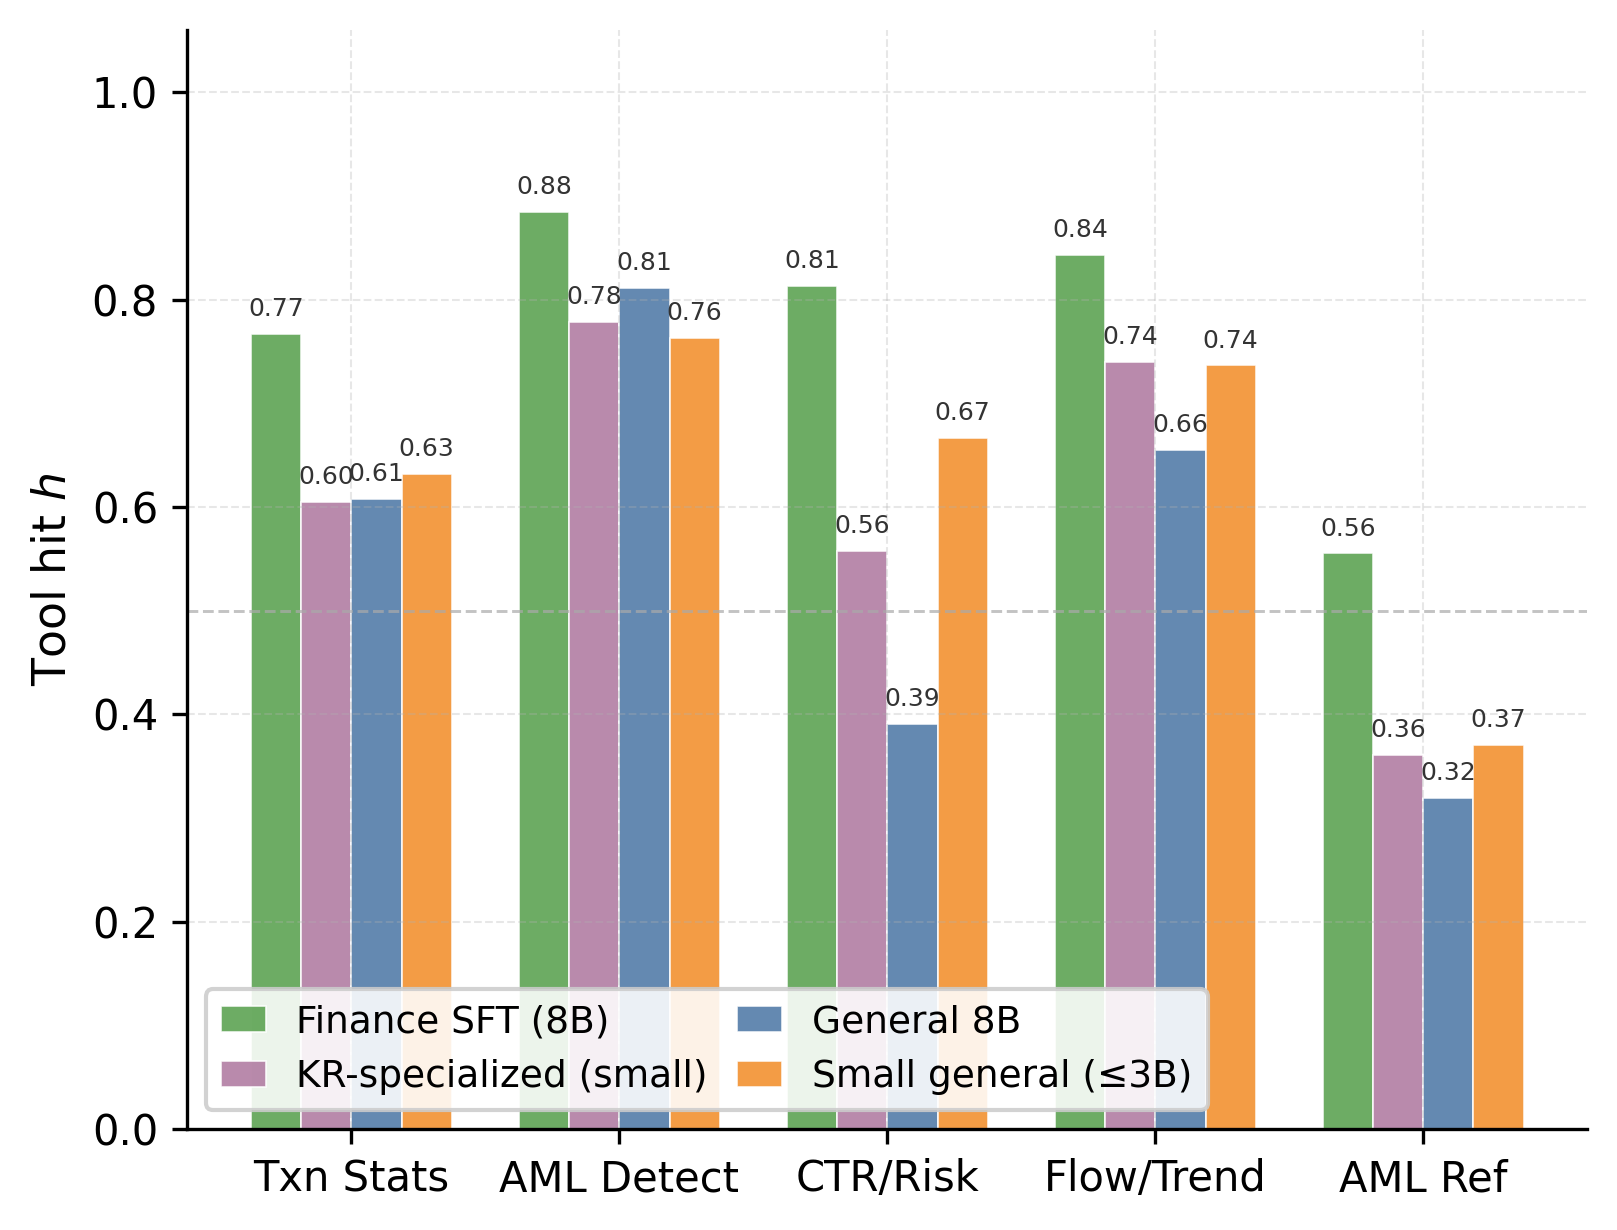
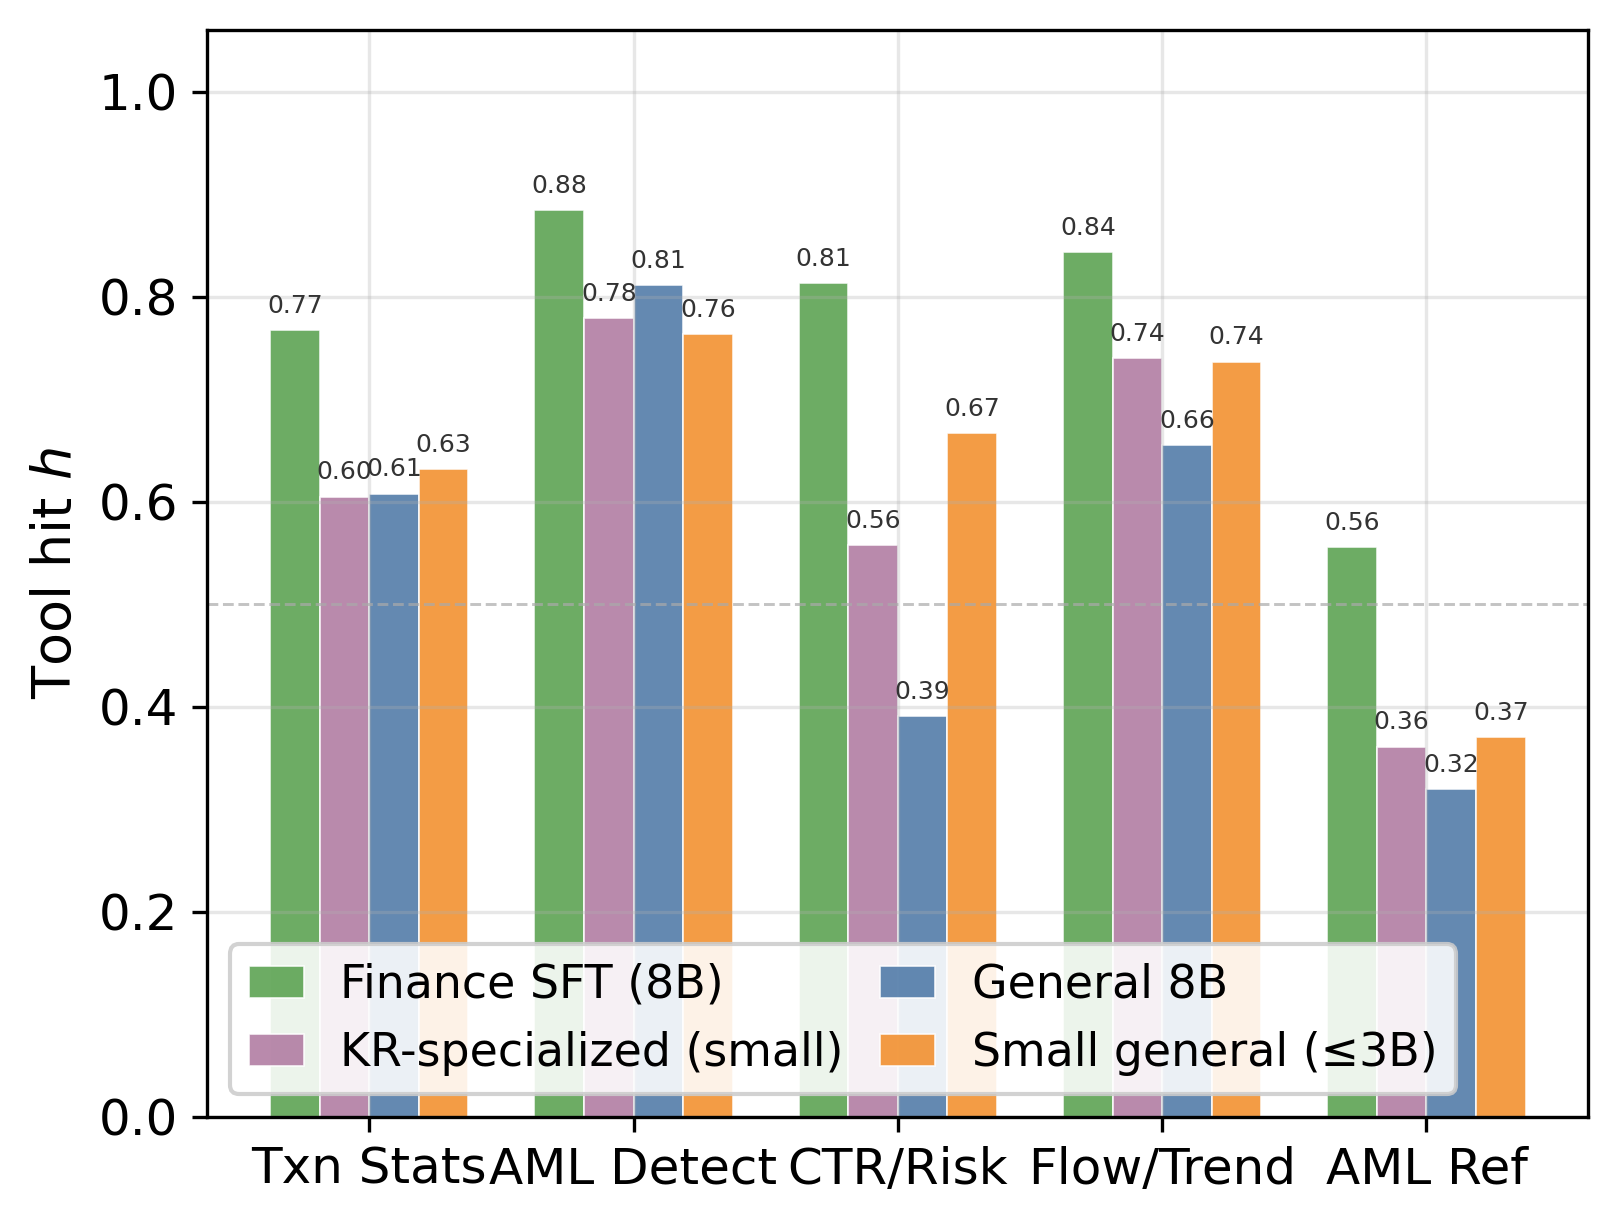
chore(_paper): fig:subdomain_grouped_bar - 4면 spine + tick/label 사이즈 fig:bfcl과 통일

diff --git a/_experiments/scripts/RQ5_subdomain_grouped_bar.py b/_experiments/scripts/RQ5_subdomain_grouped_bar.py
@@ -91,14 +91,16 @@ for idx, (grp, off) in enumerate(zip(GROUP_ORDER, offsets)):
         )
 
 ax.set_xticks(x)
-ax.set_xticklabels(sd_labels, fontsize=FS_TICK)
-ax.set_ylabel("Tool hit $h$", fontsize=FS_LABEL)
+ax.set_xticklabels(sd_labels, fontsize=12)
+ax.set_ylabel("Tool hit $h$", fontsize=13)
 ax.set_ylim(0, 1.06)
 ax.axhline(0.5, color="#aaaaaa", linewidth=0.7, linestyle="--", alpha=0.7)
-style_axes(ax)
+# 네모박스: 4면 spine 모두 표시 (fig:bfcl과 일치)
+ax.grid(True, alpha=0.3)
+ax.tick_params(axis="y", labelsize=12)
 
 ax.legend(
-    fontsize=FS_LEGEND,
+    fontsize=11,
     loc="lower left",
     framealpha=0.88,
     ncol=2,
